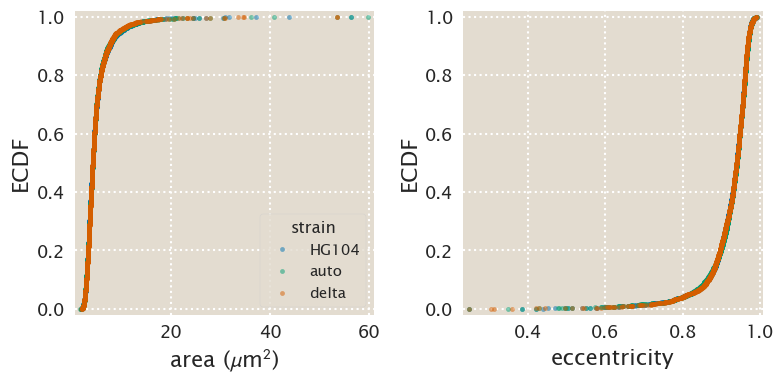
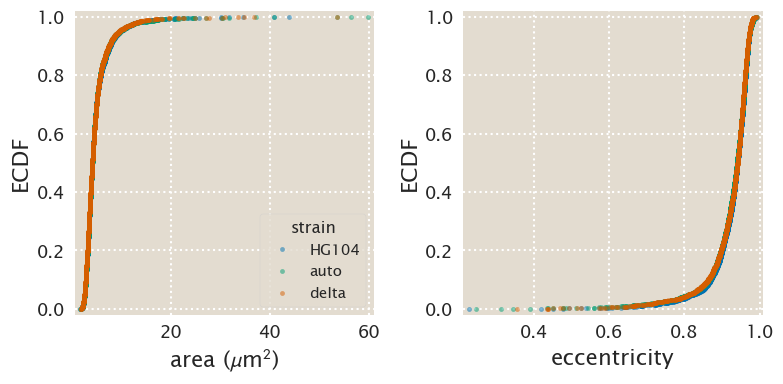
added ECDF for all strains

diff --git a/src/image_analysis/20180326_O2_HG104_IPTG_titration_microscopy/analysis.py b/src/image_analysis/20180326_O2_HG104_IPTG_titration_microscopy/analysis.py
@@ -34,6 +34,7 @@ DATE = 20180326
 USERNAME = 'mrazomej'
 OPERATOR = 'O2'
 STRAIN = 'HG104'
+STRAINS = [STRAIN] + ['auto', 'delta']
 REPRESSOR = 11
 BINDING_ENERGY = -13.9
 
@@ -150,75 +151,77 @@ plt.savefig('./outdir/fold_change.png', bbox_inches='tight')
 concentrations = df_filt.IPTG_uM.unique()
 colors = sns.color_palette("Blues_r", len(concentrations))
 
-fig, ax = plt.subplots(2, 1, figsize=(6,5), sharex=True)
+for strain in STRAINS:
+    fig, ax = plt.subplots(2, 1, figsize=(6, 5), sharex=True)
 
-# Set the nice scientific notation for the y axis of the histograms
-ax[0].yaxis.set_major_formatter(mpl.ticker.ScalarFormatter(\
-                             useMathText=True, 
-                             useOffset=False))
-ax[0].xaxis.set_major_formatter(mpl.ticker.ScalarFormatter(\
-                             useMathText=True, 
-                             useOffset=False))
+    # Set the nice scientific notation for the y axis of the histograms
+    ax[0].yaxis.set_major_formatter(mpl.ticker.ScalarFormatter(
+                                 useMathText=True,
+                                 useOffset=False))
+    ax[0].xaxis.set_major_formatter(mpl.ticker.ScalarFormatter(
+                                 useMathText=True,
+                                 useOffset=False))
 
-# Group data frame by concentration
-df_group = df_filt[df_filt.rbs == STRAIN].groupby('IPTG_uM')
+    # Group data frame by concentration
+    df_group = df_filt[df_filt.rbs ==strain].groupby('IPTG_uM')
 
-# initialize counter for colors
-i = 0
-mean_fl = []
-for c, data in df_group:
-    mean_int = data.mean_intensity
-    mean_fl.append(mean_int.mean())
-    # Histogram plot
-    n, bins, patches = ax[0].hist(mean_int, 30,
-                                normed=1, histtype='stepfilled', alpha=0.4,
-                                label=str(c)+ r' $\mu$M', facecolor=colors[i],
-                               linewidth=1)
-    n, bins, patches = ax[0].hist(mean_int, 30,
-                                normed=1, histtype='stepfilled', 
-                                label='', edgecolor='k',
-                               linewidth=1.5, facecolor='none')
-    # ECDF Plot
-    x, y = im_utils.ecdf(mean_int)
-    ax[1].plot(x, y, '.', label=str(c)+ r' $\mu$M', color=colors[i])
-    
-    # Increase counter
-    i += 1
+    # initialize counter for colors
+    i = 0
+    mean_fl = []
+    for c, data in df_group:
+        mean_int = data.mean_intensity
+        mean_fl.append(mean_int.mean())
+        # Histogram plot
+        n, bins, patches = ax[0].hist(mean_int, 30,
+                                    normed=1, histtype='stepfilled', alpha=0.4,
+                                    label=str(c)+ r' $\mu$M', facecolor=colors[i],
+                                   linewidth=1)
+        n, bins, patches =ax[0].hist(mean_int, 30,
+                                    normed=1, histtype='stepfilled',
+                                    label='', edgecolor='k',
+                                   linewidth=1.5, facecolor='none')
+        # ECDF Plot
+        x, y =im_utils.ecdf(mean_int)
+        ax[1].plot(x, y, '.', label=str(c)+ r' $\mu$M', color=colors[i])
 
-# Declare color map for legend
-cmap = plt.cm.get_cmap('Blues_r', len(concentrations))
-bounds = np.linspace(0, len(concentrations), len(concentrations) + 1)
+        # Increase counter
+        i +=1
 
-# # Plot a little triangle indicating the mean of each distribution
-mean_plot = ax[0].scatter(mean_fl, [0.0007] * len(mean_fl), marker='v', s=200,
-            c=np.arange(len(mean_fl)), cmap=cmap,
-            edgecolor='k',
-            linewidth=1.5)
-# Generate a colorbar with the concentrations
-cbar_ax = fig.add_axes([0.95, 0.25, 0.03, 0.5])
-cbar = fig.colorbar(mean_plot, cax=cbar_ax)
-cbar.ax.get_yaxis().set_ticks([])
-for j, c in enumerate(concentrations):
-    if c == 0.1:
-        c = str(c)
-    else:
-        c = str(int(c))
-    cbar.ax.text(1, j / len(concentrations) + 1 / (2 * len(concentrations)),
-                 c, ha='left', va='center',
-                 transform = cbar_ax.transAxes, fontsize=12)
-cbar.ax.get_yaxis().labelpad = 35
-cbar.set_label(r'[inducer] ($\mu$M)')
+    # Declare color map for legend
+    cmap =plt.cm.get_cmap('Blues_r', len(concentrations))
+    bounds =np.linspace(0, len(concentrations), len(concentrations) + 1)
 
-ax[0].set_ylim(bottom=0, top=0.001)
-ax[0].set_ylabel('probability')
-ax[0].ticklabel_format(style='sci', axis='y', scilimits=(0,0))
- 
-ax[1].margins(0.01)
-ax[1].set_xlabel('fluorescence (a.u.)')
-ax[1].set_ylabel('ECDF')
+    # # Plot a little triangle indicating the mean of each distribution
+    mean_plot =ax[0].scatter(mean_fl, [0.0007] * len(mean_fl), marker='v', s=200,
+                c=np.arange(len(mean_fl)), cmap=cmap,
+                edgecolor='k',
+                linewidth=1.5)
+    # Generate a colorbar with the concentrations
+    cbar_ax =fig.add_axes([0.95, 0.25, 0.03, 0.5])
+    cbar =fig.colorbar(mean_plot, cax=cbar_ax)
+    cbar.ax.get_yaxis().set_ticks([])
+    for j, c in enumerate(concentrations):
+        if c ==0.1:
+            c =str(c)
+        else:
+            c =str(int(c))
+        cbar.ax.text(1, j / len(concentrations) + 1 / (2 * len(concentrations)),
+                     c, ha='left', va='center',
+                     transform =cbar_ax.transAxes, fontsize=12)
+    cbar.ax.get_yaxis().labelpad =35
+    cbar.set_label(r'[inducer] ($\mu$M)')
 
-plt.figtext(0.0, .9, 'A', fontsize=20)
-plt.figtext(0.0, .46, 'B', fontsize=20)
+    ax[0].set_ylim(bottom=0, top=0.001)
+    ax[0].set_ylabel('probability')
+    ax[0].ticklabel_format(style='sci', axis='y', scilimits=(0,0))
 
-plt.subplots_adjust(hspace=0.06)
-plt.savefig('./outdir/fluor_ecdf.png', bbox_inches='tight')
+    ax[1].margins(0.01)
+    ax[1].set_xlabel('fluorescence (a.u.)')
+    ax[1].set_ylabel('ECDF')
+
+    plt.figtext(0.0, .9, 'A', fontsize=20)
+    plt.figtext(0.0, .46, 'B', fontsize=20)
+
+    plt.subplots_adjust(hspace=0.06)
+    plt.savefig('./outdir/' + strain + '_fluor_ecdf.png', bbox_inches='tight')
+
